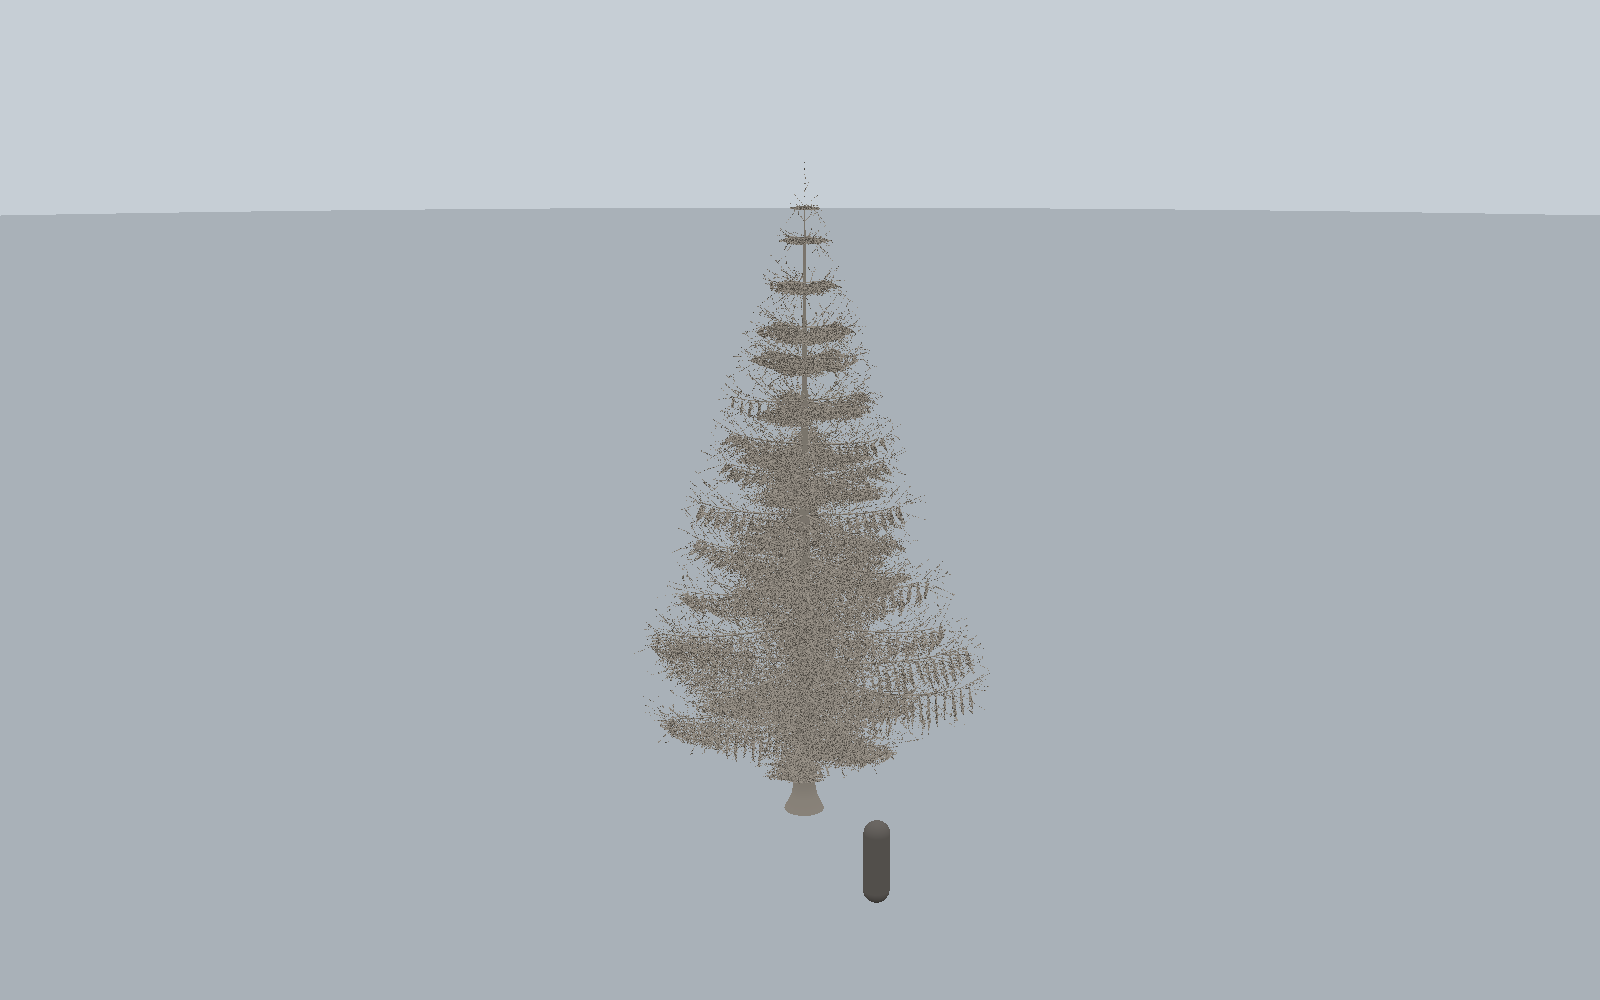
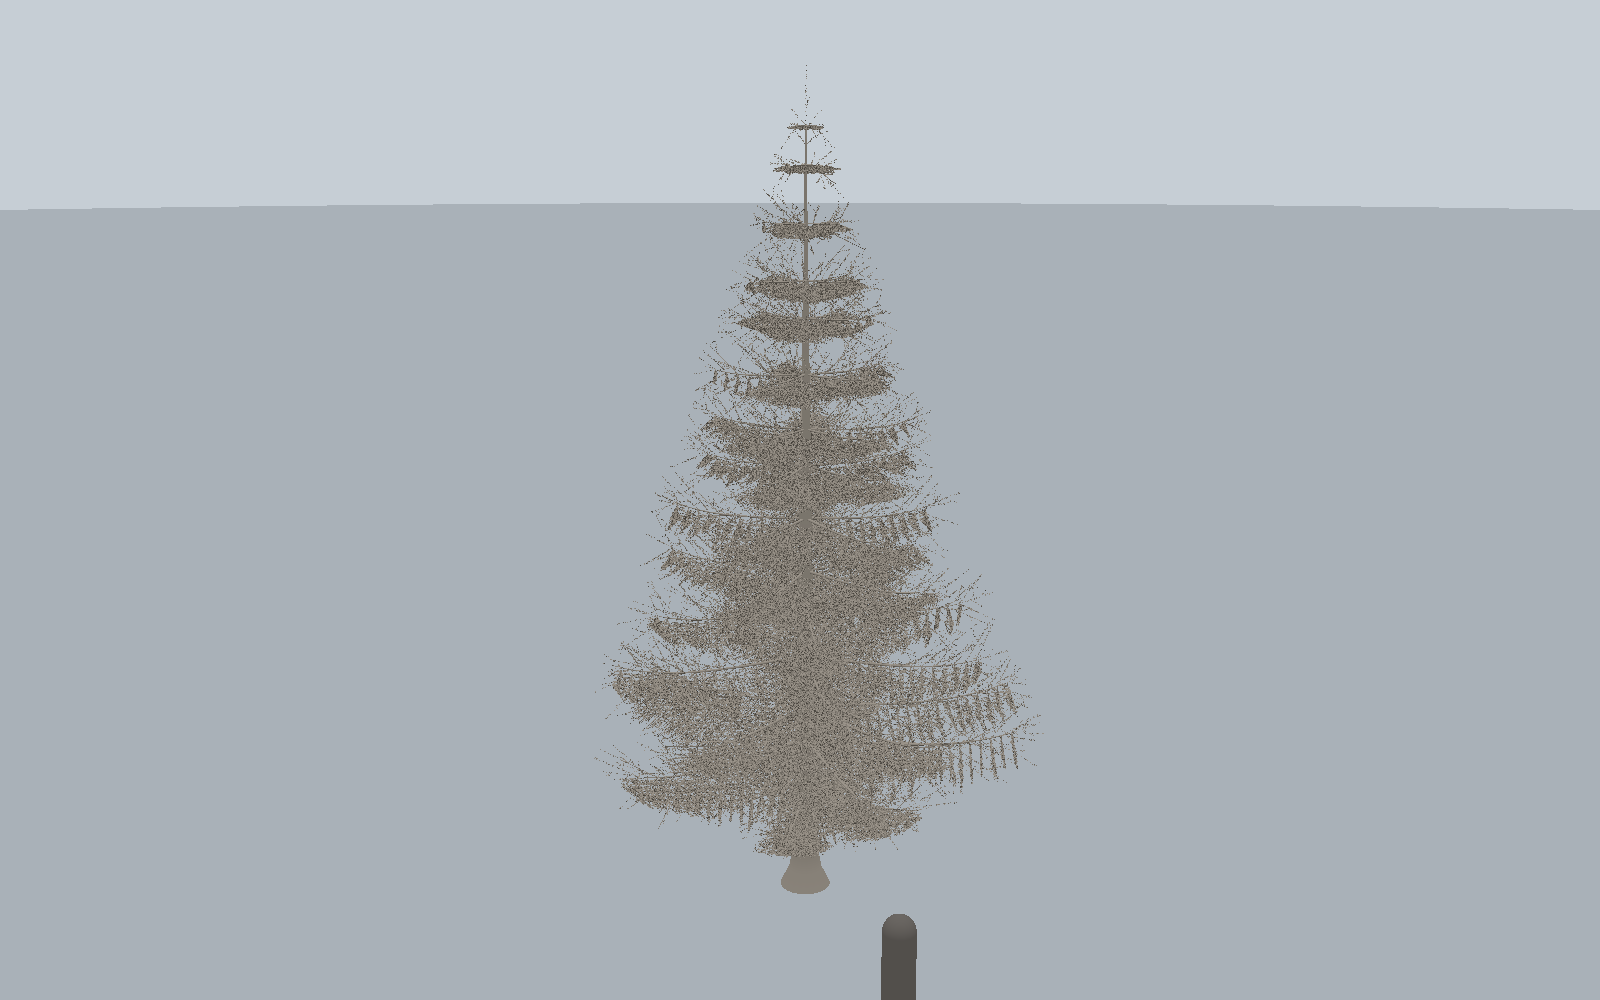
feat(render): frame the crown the bounds inscribe, not the box
A corner fit at a three-quarter view is set by empty air; the hero pose now
frames the inscribed ellipsoid with a 1.15 margin as four support evaluations,
and the tests sample the whole crown surface. Stills and timing re-rendered.

Claude-Session: https://claude.ai/code/session_01HLZWrgghubbS3KdrFDqTp9

Changed region(s): [[0.0, 0.124, 1.0, 1.0]]

diff --git a/crates/telperion-render/src/camera.rs b/crates/telperion-render/src/camera.rs
@@ -40,44 +40,48 @@ impl Camera {
     }
 }
 
-/// The eight corners of a box, the points a frame has to hold.
-fn corners(bounds: Bounds) -> [Vec3; 8] {
-    let (lo, hi) = (bounds.min, bounds.max);
-    [
-        Vec3::new(lo.x, lo.y, lo.z),
-        Vec3::new(hi.x, lo.y, lo.z),
-        Vec3::new(lo.x, hi.y, lo.z),
-        Vec3::new(hi.x, hi.y, lo.z),
-        Vec3::new(lo.x, lo.y, hi.z),
-        Vec3::new(hi.x, lo.y, hi.z),
-        Vec3::new(lo.x, hi.y, hi.z),
-        Vec3::new(hi.x, hi.y, hi.z),
-    ]
+/// How far the crown reaches in a direction. A tree fills its bounds the way a
+/// crown does, as the ellipsoid the box inscribes, not out to the box's own
+/// corners: at a three-quarter view a corner fit is set by a corner that holds
+/// nothing but air. The support of an ellipsoid with these half-extents is the
+/// length of the direction scaled by them.
+fn reach_of(half: Vec3, direction: Vec3) -> f64 {
+    Vec3::new(
+        half.x * direction.x,
+        half.y * direction.y,
+        half.z * direction.z,
+    )
+    .length()
 }
 
-/// The pose that judges a tree of these bounds at this aspect: every corner of
-/// the bounds inside the frame with the margin and no more, solved corner by
-/// corner so a near corner that subtends more is what sets the distance, and
-/// never underground however low the subject's centre sits.
+/// The pose that judges a tree of these bounds at this aspect: the crown
+/// inscribed in the bounds sits inside the frame with the margin and no more,
+/// solved as the support of that crown along the frame's edges, and never
+/// underground however low the subject's centre sits.
 pub fn hero_pose(bounds: Bounds, aspect: f64, ground_reach: f64) -> Camera {
     let size = bounds.max - bounds.min;
     let centre = (bounds.min + bounds.max) * 0.5;
+    let half = size * 0.5;
 
     // The picture's axes at the hero direction, the same frame `look_at` builds.
     let back = FRAME_DIRECTION.normalized();
     let right = Vec3::Y.cross(back).normalized();
     let up = back.cross(right);
-    // The vertical half-angle is the camera's own; the horizontal one is that
+    // A point sits inside an edge when its depth plus its offset toward that
+    // edge over the edge's tangent is under the distance; the crown's furthest
+    // such point is its support along `back + offset / tangent`, once per edge.
+    // The vertical tangent is the camera's own; the horizontal one is that
     // times the aspect, so a wide viewport pulls in and a tall one pulls back.
     let tangent = (FIELD_OF_VIEW.to_radians() / 2.0).tan();
-    let solved = corners(bounds)
+    let edges = [
+        up * (FRAME_MARGIN / tangent),
+        up * (-FRAME_MARGIN / tangent),
+        right * (FRAME_MARGIN / (tangent * aspect.max(0.1))),
+        right * (-FRAME_MARGIN / (tangent * aspect.max(0.1))),
+    ];
+    let solved = edges
         .iter()
-        .map(|corner| {
-            let offset = *corner - centre;
-            let need = (offset.dot(up).abs() / tangent)
-                .max(offset.dot(right).abs() / (tangent * aspect.max(0.1)));
-            offset.dot(back) + need * FRAME_MARGIN
-        })
+        .map(|edge| reach_of(half, back + *edge))
         .fold(0.0, f64::max);
     // A subject with no extent at all leaves nothing to solve, and the eye
     // would land on the target with no direction to look along.
@@ -175,44 +179,63 @@ mod tests {
         }
     }
 
+    /// Points over the whole surface of the crown the bounds inscribe.
+    fn crown(bounds: Bounds) -> Vec<Vec3> {
+        let centre = (bounds.min + bounds.max) * 0.5;
+        let half = (bounds.max - bounds.min) * 0.5;
+        let mut points = Vec::new();
+        for i in 0..=36 {
+            let polar = std::f64::consts::PI * f64::from(i) / 36.0;
+            for j in 0..72 {
+                let azimuth = std::f64::consts::TAU * f64::from(j) / 72.0;
+                points.push(Vec3::new(
+                    centre.x + half.x * polar.sin() * azimuth.cos(),
+                    centre.y + half.y * polar.cos(),
+                    centre.z + half.z * polar.sin() * azimuth.sin(),
+                ));
+            }
+        }
+        points
+    }
+
     #[test]
-    fn every_corner_sits_inside_the_frame() {
+    fn the_whole_crown_sits_inside_the_frame() {
         for aspect in [0.6, 1.0, 16.0 / 9.0, 3.0] {
             let camera = hero_pose(oak_bounds(), aspect, crate::GROUND_REACH);
             let view_projection = camera.view_projection(aspect);
-            for corner in corners(oak_bounds()) {
-                let (x, y, depth) = project(&view_projection, corner);
+            for point in crown(oak_bounds()) {
+                let (x, y, depth) = project(&view_projection, point);
                 assert!(
                     x.abs() <= 1.0 && y.abs() <= 1.0,
-                    "corner {corner:?} left the frame at aspect {aspect}: {x}, {y}"
+                    "crown point {point:?} left the frame at aspect {aspect}: {x}, {y}"
                 );
                 assert!(
                     (0.0..=1.0).contains(&depth),
-                    "corner {corner:?} left the depth range at aspect {aspect}: {depth}"
+                    "crown point {point:?} left the depth range at aspect {aspect}: {depth}"
                 );
             }
         }
     }
 
     #[test]
-    fn the_margin_is_the_only_air_around_the_subject() {
-        // The tightest corner sits exactly on the margin line: any further
-        // back and the tree is smaller than the rule says, any closer and a
-        // corner leaves the frame.
+    fn the_margin_is_the_only_air_around_the_crown() {
+        // The crown's tightest point sits on the margin line: any further
+        // back and the tree is smaller than the rule says, any closer and the
+        // crown leaves the frame.
         for aspect in [0.6, 1.0, 16.0 / 9.0, 3.0] {
             let camera = hero_pose(oak_bounds(), aspect, crate::GROUND_REACH);
             let view_projection = camera.view_projection(aspect);
-            let tightest = corners(oak_bounds())
+            let tightest = crown(oak_bounds())
                 .iter()
-                .map(|&corner| {
-                    let (x, y, _) = project(&view_projection, corner);
+                .map(|&point| {
+                    let (x, y, _) = project(&view_projection, point);
                     x.abs().max(y.abs())
                 })
                 .fold(0.0, f64::max);
             assert!(
-                (tightest - 1.0 / FRAME_MARGIN).abs() < 2e-3,
-                "the tightest corner sits at {tightest} of the half-frame at aspect \
-                 {aspect}; the margin says {}",
+                (tightest - 1.0 / FRAME_MARGIN).abs() < 5e-3,
+                "the crown's tightest point sits at {tightest} of the half-frame at \
+                 aspect {aspect}; the margin says {}",
                 1.0 / FRAME_MARGIN
             );
         }
@@ -254,15 +277,15 @@ mod tests {
             let camera = hero_pose(element, 1.0, crate::GROUND_REACH);
             let view_projection = camera.view_projection(1.0);
             let (mut low, mut high) = (f64::MAX, f64::MIN);
-            for corner in corners(element) {
-                let (x, y, depth) = project(&view_projection, corner);
+            for point in crown(element) {
+                let (x, y, depth) = project(&view_projection, point);
                 assert!(
                     x.abs() <= 1.0 && y.abs() <= 1.0,
-                    "a {name} corner {corner:?} left the frame: {x}, {y}"
+                    "a {name} point {point:?} left the frame: {x}, {y}"
                 );
                 assert!(
                     (0.0..=1.0).contains(&depth),
-                    "a {name} corner {corner:?} left the depth range: {depth}"
+                    "a {name} point {point:?} left the depth range: {depth}"
                 );
                 (low, high) = (low.min(y), high.max(y));
             }

diff --git a/.flow/evidence/fn22/REPORT.md b/.flow/evidence/fn22/REPORT.md
@@ -114,16 +114,21 @@ unaffected - one device, one canvas, no rebuild.
 
 The first stills framed the tree at about half the frame height, a faithful port
 of the old harness rule with its orbit stand-off. The owner judged that too far
-away (2026-09-09), so the rule changed rather than the port: the hero pose now
-fits every corner of the subject's bounds inside the frame with a margin of 1.15
-and nothing else, solved corner by corner so the near corner that subtends most
-is the one that sets the distance. The tightest corner sits exactly on the margin
-line, which a unit test pins at four aspects. Orbiting can now carry a corner
-past the edge; the wheel is how a hand pulls back, and the orbit's travel limits
-scale from the framed distance as before. The stills and native timing records
-above were re-rendered at the new pose; the browser rows predate it, and stand
-because the frame is vertex-bound (see the probe below) and does not move with
-how much of the picture the tree covers.
+away (2026-09-09), so the rule changed rather than the port. A box fit does not
+help at a three-quarter view: the box's near corner sets the distance and holds
+nothing but air. The hero pose now frames the crown the bounds inscribe, the
+ellipsoid with the box's half-extents, and asks that it sit inside the frame with
+a margin of 1.15 and nothing else. That is four support evaluations, one per
+frame edge, and the crown's tightest point lands on the margin line, which a
+unit test pins at four aspects over the whole crown surface. The oak now fills
+about four fifths of the frame height and the spruce about nine tenths.
+Orbiting can carry a tip past the edge; the wheel is how a hand pulls back, and
+the orbit's travel limits scale from the framed distance as before. The scale
+figure stands outside the crown and may be cropped at the bottom of a tall
+subject's frame. The stills and native timing records above were re-rendered at
+the new pose; the browser rows predate it and stand, because the frame is
+vertex-bound (see the probe below) and does not move with how much of the
+picture the tree covers.
 
 ## Where the spruce frame goes: a resolution probe
 
